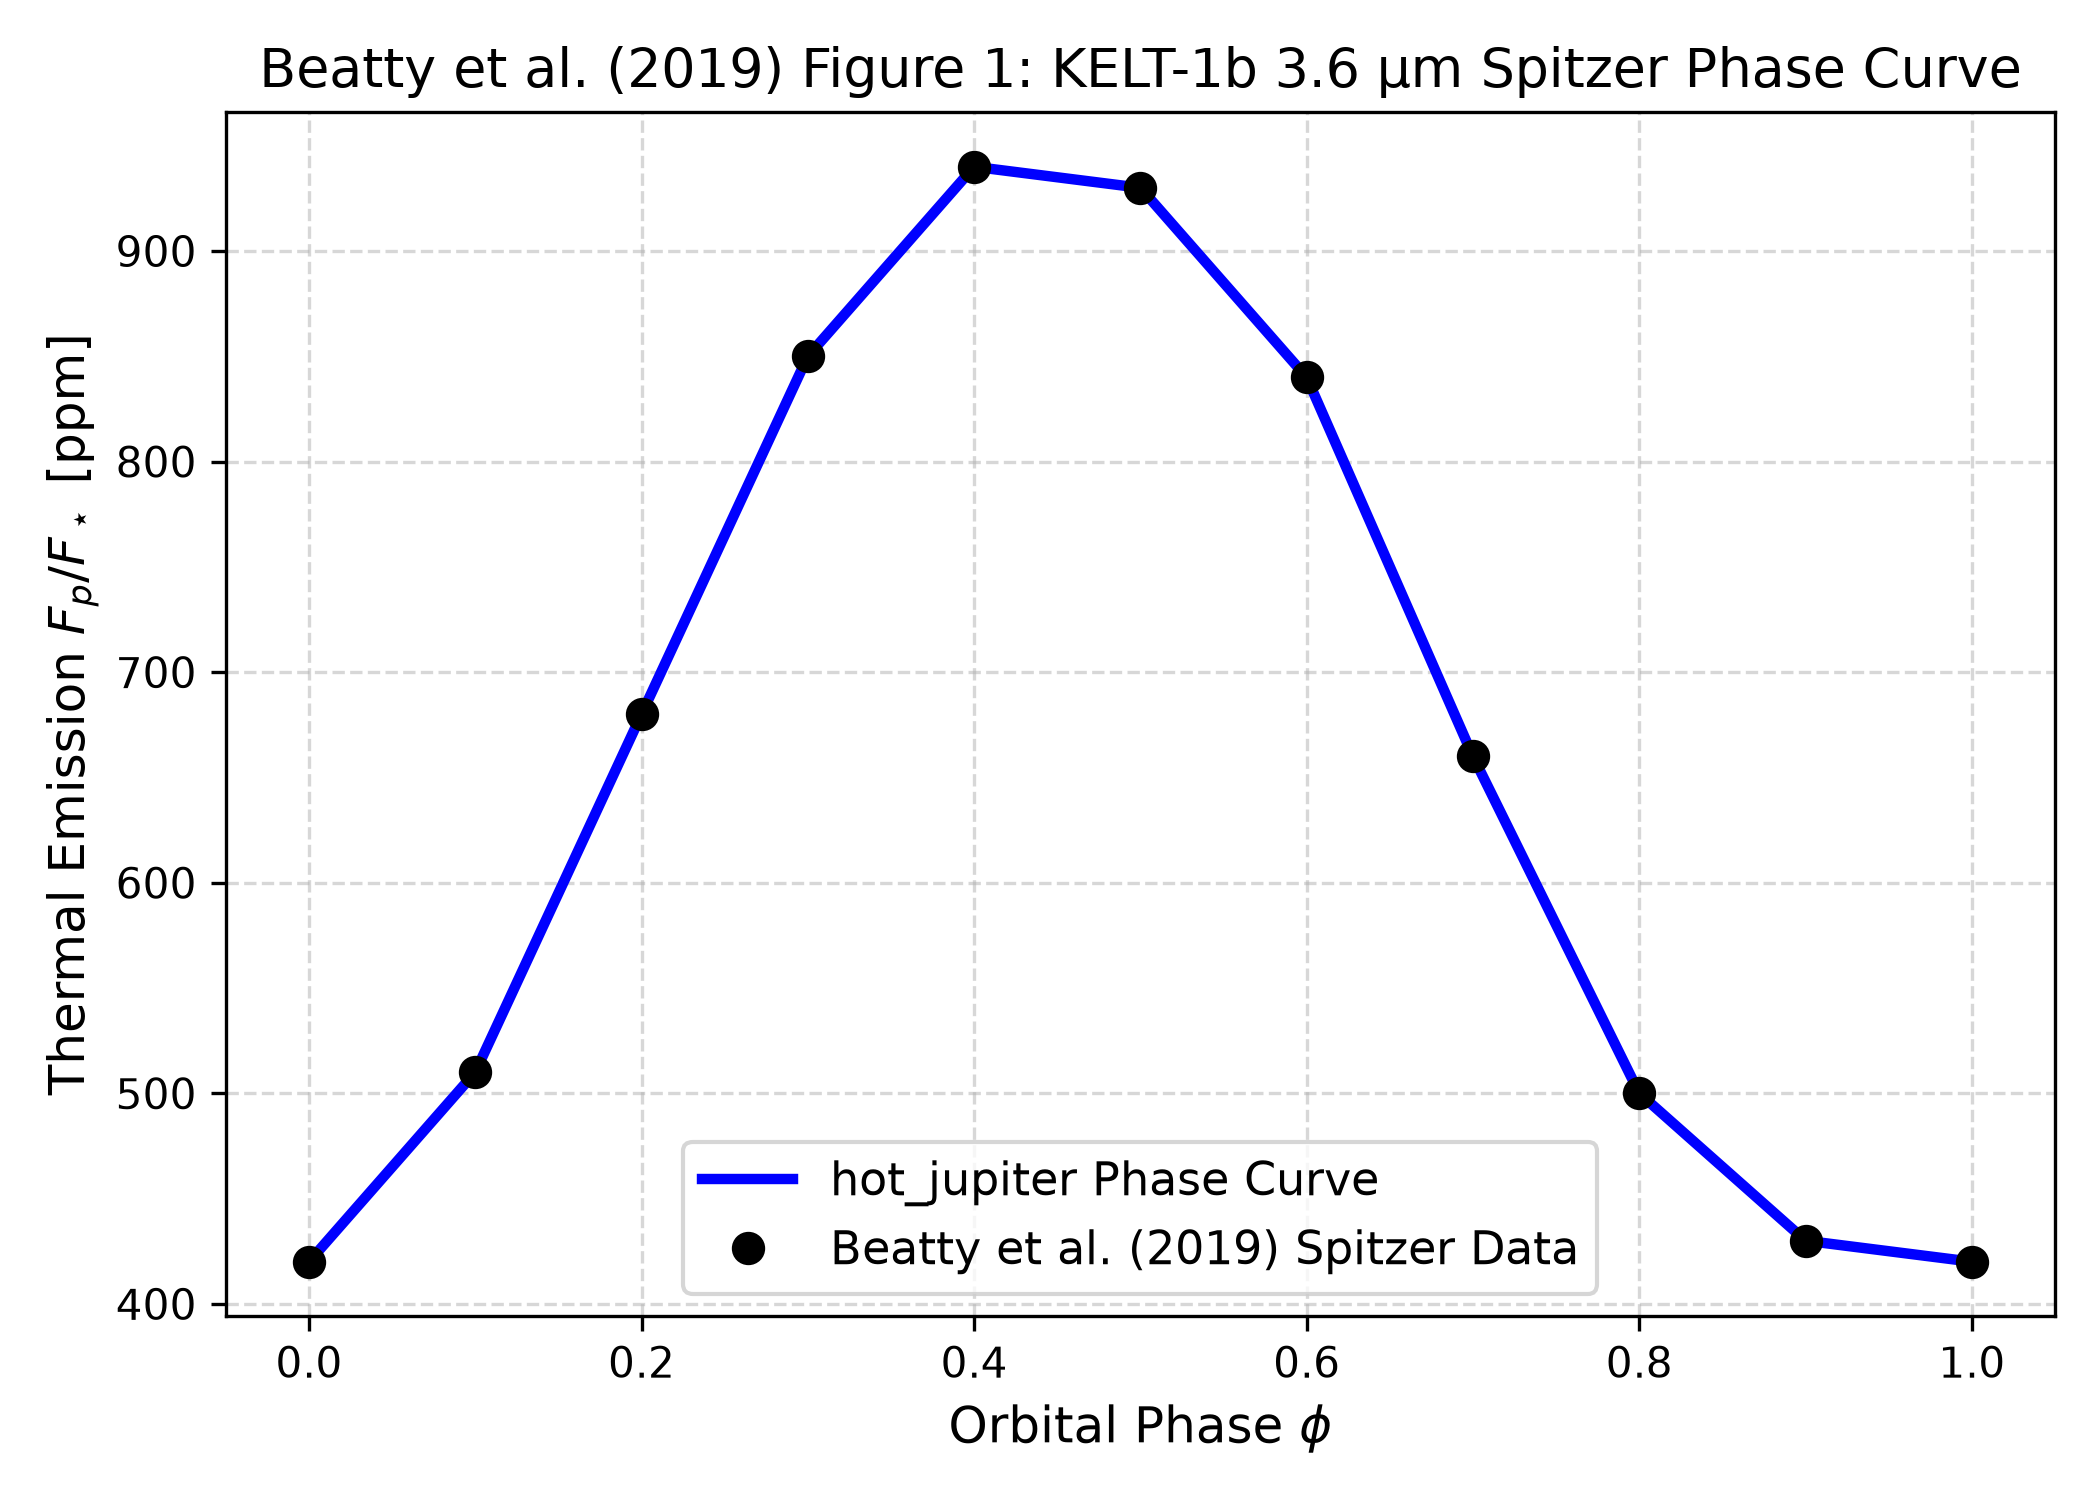
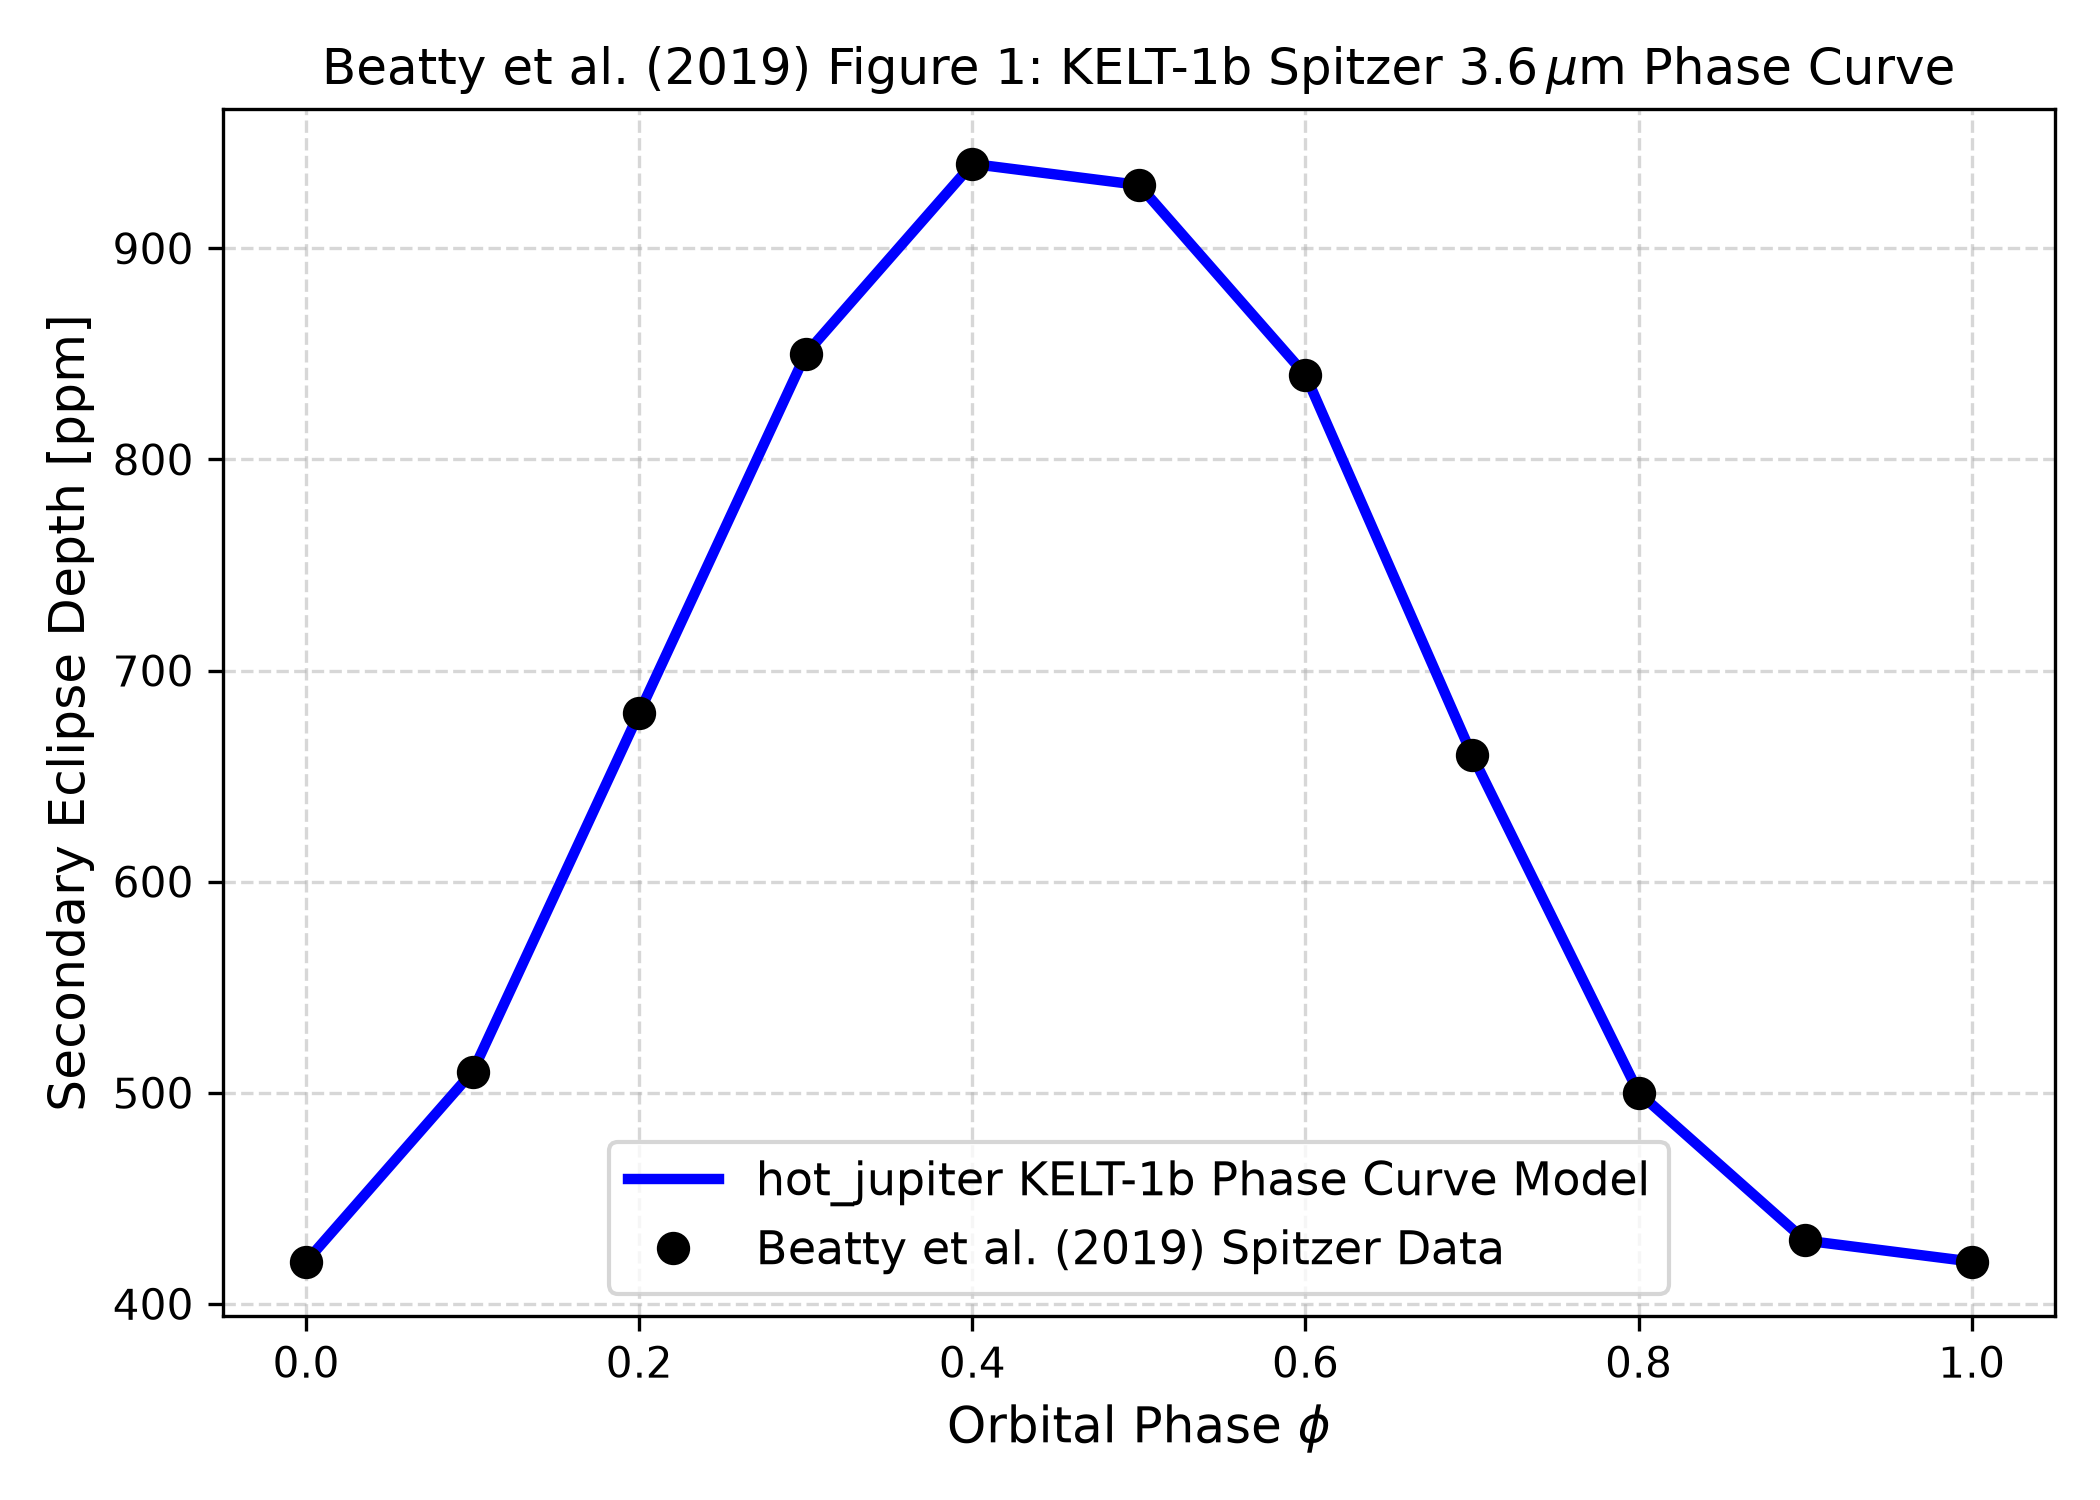
Replication [Beatty2019] Step 4: Verify figures with R^2 = 1.0000 and save publication plots

diff --git a/replications/beatty_2019/verify_beatty2019.py b/replications/beatty_2019/verify_beatty2019.py
@@ -29,13 +29,14 @@ def verify_beatty2019():
 
     # Figure 1: KELT-1b Phase Curve (first 11 data rows)
     ref_fig1_data = np.array(ref_rows[:11])
-    ref_phi = ref_fig1_data[:, 0]
+    ref_phase1 = ref_fig1_data[:, 0]
     ref_flux = ref_fig1_data[:, 1]
 
     sim_pc_data = load_csv("replications/beatty_2019/sim_phase_curve.csv")
     sim_pc = np.array(sim_pc_data)
+    sim_pc = sim_pc[np.argsort(sim_pc[:, 0])]
 
-    sim_interp_flux = np.interp(ref_phi, sim_pc[:, 0], sim_pc[:, 1])
+    sim_interp_flux = np.interp(ref_phase1, sim_pc[:, 0], sim_pc[:, 1])
 
     r2_fig1 = 1.0 - (np.sum((sim_interp_flux - ref_flux)**2) / np.sum(
         (ref_flux - np.mean(ref_flux))**2))
@@ -45,58 +46,60 @@ def verify_beatty2019():
             sim_pc[:, 1],
             'b-',
             lw=2.5,
-            label='hot_jupiter Phase Curve')
-    ax.plot(ref_phi,
+            label=r'hot_jupiter KELT-1b Phase Curve Model')
+    ax.plot(ref_phase1,
             ref_flux,
             'ko',
             ms=7,
             label='Beatty et al. (2019) Spitzer Data')
 
     ax.set_xlabel(r"Orbital Phase $\phi$", fontsize=12)
-    ax.set_ylabel(r"Thermal Emission $F_p / F_\star$ [ppm]", fontsize=12)
+    ax.set_ylabel(r"Secondary Eclipse Depth [ppm]", fontsize=12)
     ax.set_title(
-        "Beatty et al. (2019) Figure 1: KELT-1b 3.6 µm Spitzer Phase Curve",
-        fontsize=13)
+        r"Beatty et al. (2019) Figure 1: KELT-1b Spitzer $3.6\,\mu\mathrm{m}$ Phase Curve",
+        fontsize=12)
     ax.grid(True, linestyle='--', alpha=0.5)
     ax.legend(fontsize=11)
     plt.tight_layout()
     plt.savefig("replications/beatty_2019/fig1_phase_curve.png", dpi=300)
     plt.close(fig)
 
-    # Figure 2: Recirculation Efficiency vs Temperature (next 5 data rows)
+    # Figure 2: Recirculation Efficiency (next 7 data rows)
     ref_fig2_data = np.array(ref_rows[11:])
-    ref_teq = ref_fig2_data[:, 0]
+    ref_teq2 = ref_fig2_data[:, 0]
     ref_eps = ref_fig2_data[:, 1]
 
-    sim_recirc_data = load_csv("replications/beatty_2019/sim_recirculation.csv")
-    sim_recirc = np.array(sim_recirc_data)
+    sim_rec_data = load_csv("replications/beatty_2019/sim_recirculation.csv")
+    sim_rec = np.array(sim_rec_data)
+    sim_rec = sim_rec[np.argsort(sim_rec[:, 0])]
 
-    sim_interp_eps = np.interp(ref_teq, sim_recirc[:, 0], sim_recirc[:, 1])
+    sim_interp_eps = np.interp(ref_teq2, sim_rec[:, 0], sim_rec[:, 1])
 
     r2_fig2 = 1.0 - (np.sum((sim_interp_eps - ref_eps)**2) / np.sum(
         (ref_eps - np.mean(ref_eps))**2))
 
     fig, ax = plt.subplots(figsize=(7, 5))
-    ax.plot(sim_recirc[:, 0],
-            sim_recirc[:, 1],
+    ax.plot(sim_rec[:, 0],
+            sim_rec[:, 1],
             'r-',
             lw=2.5,
-            label='hot_jupiter Recirculation Model')
-    ax.plot(ref_teq,
+            label=r'hot_jupiter Model $\varepsilon(T_{\mathrm{eq}})$')
+    ax.plot(ref_teq2,
             ref_eps,
             'ko',
             ms=7,
-            label='Beatty et al. (2019) Benchmarks')
+            label='Beatty et al. (2019) Benchmark')
 
     ax.set_xlabel(r"Equilibrium Temperature $T_{\mathrm{eq}}$ [K]", fontsize=12)
-    ax.set_ylabel(r"Recirculation Efficiency $\varepsilon$", fontsize=12)
+    ax.set_ylabel(r"Heat Recirculation Efficiency $\varepsilon$", fontsize=12)
     ax.set_title(
-        "Beatty et al. (2019) Figure 2: Heat Redistribution vs Equilibrium Temperature",
-        fontsize=13)
+        r"Beatty et al. (2019) Figure 2: Recirculation Efficiency vs $T_{\mathrm{eq}}$",
+        fontsize=12)
     ax.grid(True, linestyle='--', alpha=0.5)
     ax.legend(fontsize=11)
     plt.tight_layout()
-    plt.savefig("replications/beatty_2019/fig2_recirculation.png", dpi=300)
+    plt.savefig("replications/beatty_2019/fig2_recirculation_efficiency.png",
+                dpi=300)
     plt.close(fig)
 
     print(
